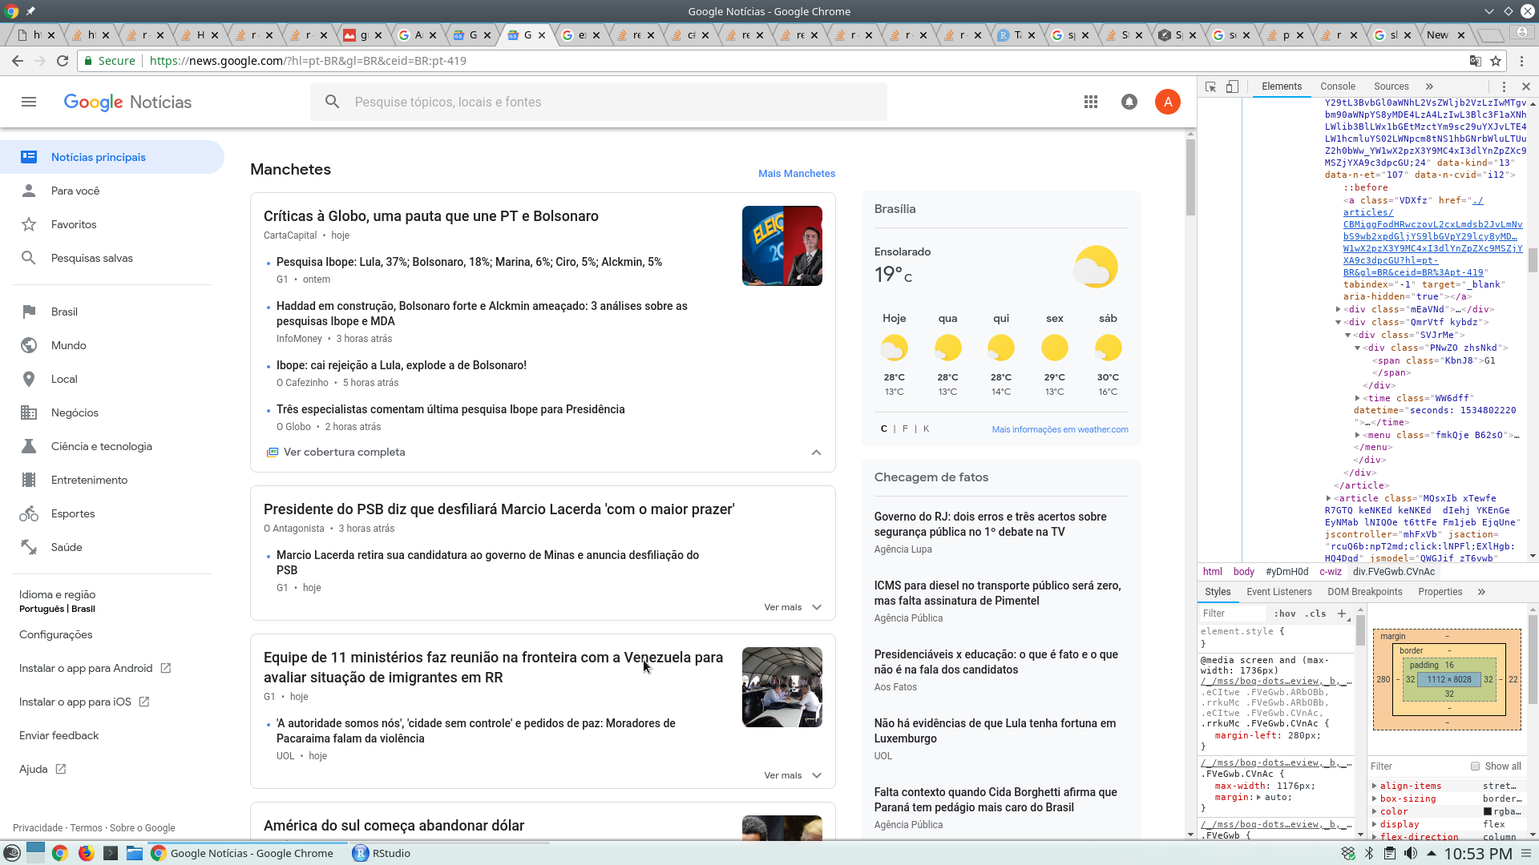
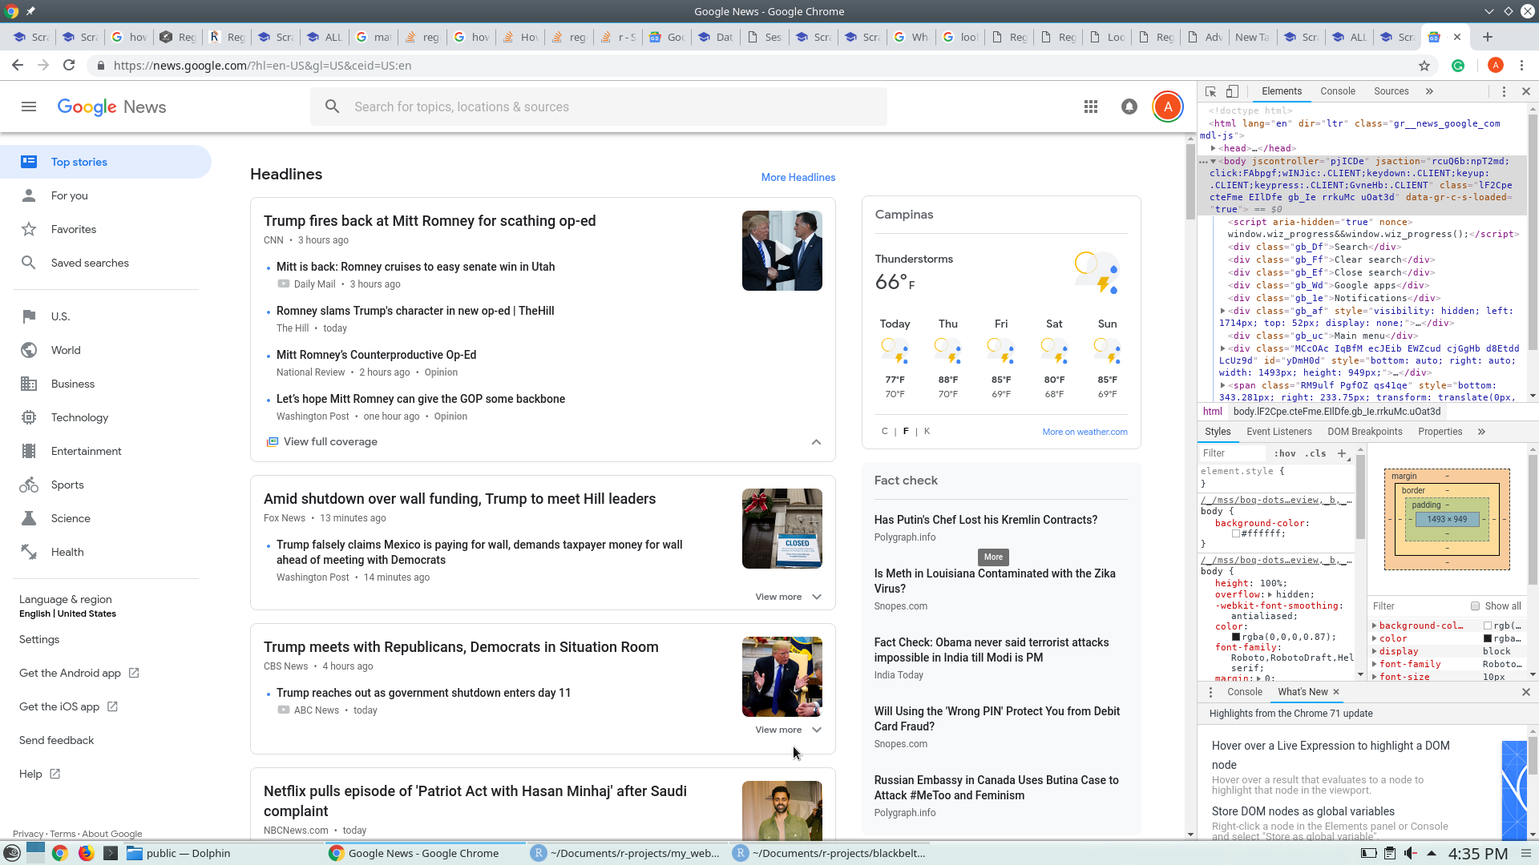
googlenews post

diff --git a/posts/2018-12-24-scraping-google-news-with-rvest/index.html b/posts/2018-12-24-scraping-google-news-with-rvest/index.html
@@ -1339,113 +1339,70 @@ document.addEventListener('DOMContentLoaded', function() {
 
 <div class="d-article">
 <p>This is an example of how to scrape Google News with the awesome <code>rvest</code> package.</p>
-<p>This work is the result of a question that came up on the WhatsApp group of our site <a href="https://www.blackbeltR.com.br" target="_blank"><strong>blackbeltR</strong></a>. A user came up with this problem and I decided to help him. It was a cool challenge, so why not?</p>
-<p>A great deal of the basic ideas comes from his own code. I just kept it and added few things in order to get the code working. First off, you should take a look at the Google News (or Google Notícias) website <a href="https://news.google.com/?hl=pt-BR&amp;gl=BR&amp;ceid=BR:pt-419" target="_blank">HERE</a>, which I reproduce below:</p>
-<p><!-- criamos uma pasta /img em /_post/nome_do_post/ -> essa eh o diretorio raiz do post  --></p>
+<p>This work is a solution for a question that appeared in our WhatsApp group, <a href="https://www.blackbeltR.com.br" target="_blank"><strong>blackbeltR</strong></a>. A user came up with this problem and I decided to help him. It was a cool challenge, so why not?</p>
+<p>A great deal of the basic ideas comes from his own code. I just kept it and added few things in order to get the code working.</p>
+<p>First off, you should take a look at the Google News website <a href="https://news.google.com/" target="_blank">HERE</a>, which I reproduce below:</p>
+<!-- criamos uma pasta /img em /_post/nome_do_post/ -> essa eh o diretorio raiz do post  -->
 <p><img src="img/google_news_screenshot.png" /></p>
 <hr />
 <p>You may notice, on the right side of the page, that we are using Google Chrome <strong>dev-tools</strong>. We use this to identify the <em>html nodes</em> we need. You can access this tool by hitting the <strong>F12</strong> key. The html nodes are passed as arguments to the <code>rvest</code> functions.</p>
 <p>Basically, the idea is to extract the communication vehicle (vehicle), the time elapsed since the news was published (time), and the main headline (headline).</p>
 <p>The code and coments are presented below:</p>
 <div class="layout-chunk" data-layout="l-body">
-<pre class="r"><code>
-# loading the packages:
-library(dplyr) # we want the pipes
-library(rvest) # webscraping
-library(stringr) # to deal with strings and to clean up our data</code></pre>
-</div>
-<div class="layout-chunk" data-layout="l-body">
-<pre class="r"><code>
-# extracting the whole website
-google &lt;- read_html(&quot;https://news.google.com/?hl=pt-BR&amp;gl=BR&amp;ceid=BR:pt-419&quot;)</code></pre>
-</div>
-<div class="layout-chunk" data-layout="l-body">
-<pre class="r"><code>
-# extracting the com vehicles
-# we pass the nodes in html_nodes and extract the text from the last one 
-# we use stringr to delete strings that are not important
-vehicle_all &lt;- google %&gt;% 
-  html_nodes(&quot;div div div main c-wiz div div div article div div div&quot;) %&gt;% 
-  html_text() %&gt;%
-  str_subset(&quot;[^more_vert]&quot;) %&gt;%
-  str_subset(&quot;[^share]&quot;) %&gt;%
-  str_subset(&quot;[^bookmark_border]&quot;)
 
-vehicle_all[1:10] # take a look at the first ten</code></pre>
+</div>
+<div class="layout-chunk" data-layout="l-body">
+
+</div>
+<div class="layout-chunk" data-layout="l-body">
 <pre><code>
- [1] &quot;EBC&quot;                       &quot;G1&quot;                       
- [3] &quot;UOL&quot;                       &quot;Brasil 247&quot;               
- [5] &quot;G1&quot;                        &quot;Jornal O Globo&quot;           
- [7] &quot;UOL&quot;                       &quot;Jornal Correio&quot;           
- [9] &quot;G1&quot;                        &quot;Diário do Centro do Mundo&quot;</code></pre>
+ [1] &quot;CNN&quot;                 &quot;Daily Mail&quot;          &quot;Fox News&quot;           
+ [4] &quot;National Review&quot;     &quot;Opinion&quot;             &quot;Opinion&quot;            
+ [7] &quot;The Washington Post&quot; &quot;Opinion&quot;             &quot;Opinion&quot;            
+[10] &quot;Fox News&quot;           </code></pre>
 </div>
 <div class="layout-chunk" data-layout="l-body">
-<pre class="r"><code>
-# extracting the time elapsed
-time_all &lt;- google %&gt;% html_nodes(&quot;div article div div time&quot;) %&gt;% html_text()
-
-time_all[1:10] # take a look at the first ten</code></pre>
 <pre><code>
- [1] &quot;hoje&quot;          &quot;hoje&quot;          &quot;ontem&quot;         &quot;hoje&quot;         
- [5] &quot;hoje&quot;          &quot;3 horas atrás&quot; &quot;hoje&quot;          &quot;2 horas atrás&quot;
- [9] &quot;5 horas atrás&quot; &quot;2 horas atrás&quot;</code></pre>
+ [1] &quot;4 hours ago&quot;  &quot;3 hours ago&quot;  &quot;today&quot;        &quot;3 hours ago&quot; 
+ [5] &quot;one hour ago&quot; &quot;one hour ago&quot; &quot;one hour ago&quot; &quot;one hour ago&quot;
+ [9] &quot;one hour ago&quot; &quot;2 hours ago&quot; </code></pre>
 </div>
 <div class="layout-chunk" data-layout="l-body">
-<pre class="r"><code>
-# extracting the headlines
-# and using stringr for cleaning
-headline_all &lt;- google %&gt;% html_nodes(&quot;article&quot;) %&gt;% html_text(&quot;span&quot;) %&gt;%
-  str_split(&quot;(?&lt;=[a-z0-9áéóí!?])(?=[A-Z])&quot;) # also considering portuguese special characters
-
-headline_all &lt;- sapply(headline_all, function(x) x[1]) # extract only the first elements
-
-
-headline_all[1:10] # take a look at the first ten</code></pre>
 <pre><code>
- [1] &quot;Passa de 400 número de mortos em tsunami na Indonésia&quot;                   
- [2] &quot;Número de mortos no tsunami da Indonésia chega a 429&quot;                    
- [3] &quot;A erupção de vulcão que causou tsunami na Indonésia explicada em imagens&quot;
- [4] &quot;Indonésia usa drones e cães farejadores em buscas&quot;                       
- [5] &quot;Chuva dificulta busca por sobreviventes do tsunami na Indonésia&quot;         
- [6] &quot;Temer confirma que desistiu de editar decreto de indulto de Natal&quot;       
- [7] &quot;Temer não assina indulto de Natal; medida não altera saída de presos&quot;    
- [8] &quot;Michel Temer não concederá indulto de Natal&quot;                             
- [9] &quot;Palácio do Planalto confirma que não haverá indulto de Natal neste ano&quot;  
-[10] &quot;Michel Temer confirma que desistiu de editar decreto de indulto de Natal&quot;</code></pre>
+ [1] &quot;Trump fires back at Mitt Romney for scathing op-ed&quot;                                                             
+ [2] &quot;Mitt is back: Romney cruises to easy senate win in Utah&quot;                                                        
+ [3] &quot;Mitt Romney rebuked by niece and GOP boss Ronna Mc&quot;                                                             
+ [4] &quot;Mitt Romney’s Counterproductive Op-Ed&quot;                                                                          
+ [5] &quot;Let’s hope Mitt Romney can give the GOP some backbone&quot;                                                          
+ [6] &quot;Shutdown Day 12: Lawmakers to hear wall plea at White House&quot;                                                    
+ [7] &quot;Trump falsely claims Mexico is paying for wall, demands taxpayer money for wall ahead of meeting with Democrats&quot;
+ [8] &quot;Trump to Meet Congressional Leaders as Shutdown Stretches On&quot;                                                   
+ [9] &quot;Doug Schoen: Democrats have Trump backed into a corner as 2019 kicks off&quot;                                       
+[10] &quot;President Trump and Democrats need to strike a deal on the &#39;wall&#39; | The&quot;                                        </code></pre>
 </div>
-<p>In this last case we used a regular expression (REGEX) to clean up the data. We did this by separating the actual headline phrases from the complementary ones. In some cases, we have a phrase ending with uppercase letters such as “SP” (a Brazilian state) collapsed with other phrase initiating with another uppercase letter such as “A” (a common article in Portuguese) for example. We have to think of a better way to split these cases, but the current result is quite satisfactory for now.</p>
-<p>Before we finish, we have to clean up our data. It is common to collect garbage in the process such as data related to “fake news checking”, which is a section on the right side of the page (in the Brazilian version). As a result, it is possible that the three vectors we have created may have different sizes. Therefore, we use the smallest of them as the base and just delete the entries above this number on the other two vectors.</p>
+<p>In this last case we used a regular expression (REGEX) to clean up the data. We did this by separating the actual headline phrases from the complementary ones. In some cases, we have a phrase ending with uppercase letters such as “NSA” (a Brazilian state) collapsed with other phrase initiating with another uppercase letter such as the word “A” (“…with NSAA agent said…”) for example. We have to think of a better way to split these cases, but the current result is quite satisfactory for now.</p>
+<p>The expression <code>?&lt;=</code> is called “lookbehind”, while <code>?=</code> is called “lookahead”. Those “lookaround” expressions allow us to look for patterns followed or preceded by something. In our case, the idea is basically to separate a string at the point in which lowercase letters, numbers, exclamation points or question marks (<code>[a-z0-9!?]</code>) are collapsed with uppercase letters (<code>[A-Z]</code>), e.g. where lowercase letters, numbers and others are preceded (<code>?&lt;=</code>) by uppercase letters.</p>
+<p>Before we finish, we have to clean up our data. It is common to collect garbage in the process such as data related to “fact checking”, which is a section on the right side of the page. As a result, it is possible that the three vectors we have created may have different sizes. Therefore, we use the smallest of them as the base and just delete the entries above this number on the other two vectors.</p>
 <div class="layout-chunk" data-layout="l-body">
-<pre class="r"><code>
-# finding the smallest vector
-min &lt;- min(sapply(list(vehicle_all, time_all, headline_all), length))
 
-# cutting
-vehicle_all &lt;- vehicle_all[1:min]
-time_all &lt;- time_all[1:min]
-headline_all &lt;- headline_all[1:min]</code></pre>
 </div>
 <p>And we have our final data frame:</p>
 <div class="layout-chunk" data-layout="l-body">
-<pre class="r"><code>
-df_news &lt;- data_frame(vehicle_all, time_all, headline_all)
-
-df_news</code></pre>
 <pre><code>
-# A tibble: 99 x 3
-   vehicle_all        time_all   headline_all                        
-   &lt;chr&gt;              &lt;chr&gt;      &lt;chr&gt;                               
- 1 EBC                hoje       Passa de 400 número de mortos em ts…
- 2 G1                 hoje       Número de mortos no tsunami da Indo…
- 3 UOL                ontem      A erupção de vulcão que causou tsun…
- 4 Brasil 247         hoje       Indonésia usa drones e cães farejad…
- 5 G1                 hoje       Chuva dificulta busca por sobrevive…
- 6 Jornal O Globo     3 horas a… Temer confirma que desistiu de edit…
- 7 UOL                hoje       Temer não assina indulto de Natal; …
- 8 Jornal Correio     2 horas a… Michel Temer não concederá indulto …
- 9 G1                 5 horas a… Palácio do Planalto confirma que nã…
-10 Diário do Centro … 2 horas a… Michel Temer confirma que desistiu …
-# ... with 89 more rows</code></pre>
+# A tibble: 161 x 3
+   vehicle_all     time_all   headline_all                           
+   &lt;chr&gt;           &lt;chr&gt;      &lt;chr&gt;                                  
+ 1 CNN             4 hours a… Trump fires back at Mitt Romney for sc…
+ 2 Daily Mail      3 hours a… Mitt is back: Romney cruises to easy s…
+ 3 Fox News        today      Mitt Romney rebuked by niece and GOP b…
+ 4 National Review 3 hours a… Mitt Romney’s Counterproductive Op-Ed  
+ 5 Opinion         one hour … Let’s hope Mitt Romney can give the GO…
+ 6 Opinion         one hour … Shutdown Day 12: Lawmakers to hear wal…
+ 7 The Washington… one hour … Trump falsely claims Mexico is paying …
+ 8 Opinion         one hour … Trump to Meet Congressional Leaders as…
+ 9 Opinion         one hour … Doug Schoen: Democrats have Trump back…
+10 Fox News        2 hours a… President Trump and Democrats need to …
+# ... with 151 more rows</code></pre>
 </div>
 <!--radix_placeholder_article_footer-->
 <div class="article-footer">

diff --git a/_posts/2018-12-24-scraping-google-news-with-rvest/scraping-google-news-with-rvest.html b/_posts/2018-12-24-scraping-google-news-with-rvest/scraping-google-news-with-rvest.html
@@ -965,113 +965,70 @@
 
 <div class="d-article">
 <p>This is an example of how to scrape Google News with the awesome <code>rvest</code> package.</p>
-<p>This work is the result of a question that came up on the WhatsApp group of our site <a href="https://www.blackbeltR.com.br" target="_blank"><strong>blackbeltR</strong></a>. A user came up with this problem and I decided to help him. It was a cool challenge, so why not?</p>
-<p>A great deal of the basic ideas comes from his own code. I just kept it and added few things in order to get the code working. First off, you should take a look at the Google News (or Google Notícias) website <a href="https://news.google.com/?hl=pt-BR&amp;gl=BR&amp;ceid=BR:pt-419" target="_blank">HERE</a>, which I reproduce below:</p>
-<p><!-- criamos uma pasta /img em /_post/nome_do_post/ -> essa eh o diretorio raiz do post  --></p>
+<p>This work is a solution for a question that appeared in our WhatsApp group, <a href="https://www.blackbeltR.com.br" target="_blank"><strong>blackbeltR</strong></a>. A user came up with this problem and I decided to help him. It was a cool challenge, so why not?</p>
+<p>A great deal of the basic ideas comes from his own code. I just kept it and added few things in order to get the code working.</p>
+<p>First off, you should take a look at the Google News website <a href="https://news.google.com/" target="_blank">HERE</a>, which I reproduce below:</p>
+<!-- criamos uma pasta /img em /_post/nome_do_post/ -> essa eh o diretorio raiz do post  -->
 <p><img src="img/google_news_screenshot.png" /></p>
 <hr />
 <p>You may notice, on the right side of the page, that we are using Google Chrome <strong>dev-tools</strong>. We use this to identify the <em>html nodes</em> we need. You can access this tool by hitting the <strong>F12</strong> key. The html nodes are passed as arguments to the <code>rvest</code> functions.</p>
 <p>Basically, the idea is to extract the communication vehicle (vehicle), the time elapsed since the news was published (time), and the main headline (headline).</p>
 <p>The code and coments are presented below:</p>
 <div class="layout-chunk" data-layout="l-body">
-<pre class="r"><code>
-# loading the packages:
-library(dplyr) # we want the pipes
-library(rvest) # webscraping
-library(stringr) # to deal with strings and to clean up our data</code></pre>
-</div>
-<div class="layout-chunk" data-layout="l-body">
-<pre class="r"><code>
-# extracting the whole website
-google &lt;- read_html(&quot;https://news.google.com/?hl=pt-BR&amp;gl=BR&amp;ceid=BR:pt-419&quot;)</code></pre>
-</div>
-<div class="layout-chunk" data-layout="l-body">
-<pre class="r"><code>
-# extracting the com vehicles
-# we pass the nodes in html_nodes and extract the text from the last one 
-# we use stringr to delete strings that are not important
-vehicle_all &lt;- google %&gt;% 
-  html_nodes(&quot;div div div main c-wiz div div div article div div div&quot;) %&gt;% 
-  html_text() %&gt;%
-  str_subset(&quot;[^more_vert]&quot;) %&gt;%
-  str_subset(&quot;[^share]&quot;) %&gt;%
-  str_subset(&quot;[^bookmark_border]&quot;)
 
-vehicle_all[1:10] # take a look at the first ten</code></pre>
+</div>
+<div class="layout-chunk" data-layout="l-body">
+
+</div>
+<div class="layout-chunk" data-layout="l-body">
 <pre><code>
- [1] &quot;EBC&quot;                       &quot;G1&quot;                       
- [3] &quot;UOL&quot;                       &quot;Brasil 247&quot;               
- [5] &quot;G1&quot;                        &quot;Jornal O Globo&quot;           
- [7] &quot;UOL&quot;                       &quot;Jornal Correio&quot;           
- [9] &quot;G1&quot;                        &quot;Diário do Centro do Mundo&quot;</code></pre>
+ [1] &quot;CNN&quot;                 &quot;Daily Mail&quot;          &quot;Fox News&quot;           
+ [4] &quot;National Review&quot;     &quot;Opinion&quot;             &quot;Opinion&quot;            
+ [7] &quot;The Washington Post&quot; &quot;Opinion&quot;             &quot;Opinion&quot;            
+[10] &quot;Fox News&quot;           </code></pre>
 </div>
 <div class="layout-chunk" data-layout="l-body">
-<pre class="r"><code>
-# extracting the time elapsed
-time_all &lt;- google %&gt;% html_nodes(&quot;div article div div time&quot;) %&gt;% html_text()
-
-time_all[1:10] # take a look at the first ten</code></pre>
 <pre><code>
- [1] &quot;hoje&quot;          &quot;hoje&quot;          &quot;ontem&quot;         &quot;hoje&quot;         
- [5] &quot;hoje&quot;          &quot;3 horas atrás&quot; &quot;hoje&quot;          &quot;2 horas atrás&quot;
- [9] &quot;5 horas atrás&quot; &quot;2 horas atrás&quot;</code></pre>
+ [1] &quot;4 hours ago&quot;  &quot;3 hours ago&quot;  &quot;today&quot;        &quot;3 hours ago&quot; 
+ [5] &quot;one hour ago&quot; &quot;one hour ago&quot; &quot;one hour ago&quot; &quot;one hour ago&quot;
+ [9] &quot;one hour ago&quot; &quot;2 hours ago&quot; </code></pre>
 </div>
 <div class="layout-chunk" data-layout="l-body">
-<pre class="r"><code>
-# extracting the headlines
-# and using stringr for cleaning
-headline_all &lt;- google %&gt;% html_nodes(&quot;article&quot;) %&gt;% html_text(&quot;span&quot;) %&gt;%
-  str_split(&quot;(?&lt;=[a-z0-9áéóí!?])(?=[A-Z])&quot;) # also considering portuguese special characters
-
-headline_all &lt;- sapply(headline_all, function(x) x[1]) # extract only the first elements
-
-
-headline_all[1:10] # take a look at the first ten</code></pre>
 <pre><code>
- [1] &quot;Passa de 400 número de mortos em tsunami na Indonésia&quot;                   
- [2] &quot;Número de mortos no tsunami da Indonésia chega a 429&quot;                    
- [3] &quot;A erupção de vulcão que causou tsunami na Indonésia explicada em imagens&quot;
- [4] &quot;Indonésia usa drones e cães farejadores em buscas&quot;                       
- [5] &quot;Chuva dificulta busca por sobreviventes do tsunami na Indonésia&quot;         
- [6] &quot;Temer confirma que desistiu de editar decreto de indulto de Natal&quot;       
- [7] &quot;Temer não assina indulto de Natal; medida não altera saída de presos&quot;    
- [8] &quot;Michel Temer não concederá indulto de Natal&quot;                             
- [9] &quot;Palácio do Planalto confirma que não haverá indulto de Natal neste ano&quot;  
-[10] &quot;Michel Temer confirma que desistiu de editar decreto de indulto de Natal&quot;</code></pre>
+ [1] &quot;Trump fires back at Mitt Romney for scathing op-ed&quot;                                                             
+ [2] &quot;Mitt is back: Romney cruises to easy senate win in Utah&quot;                                                        
+ [3] &quot;Mitt Romney rebuked by niece and GOP boss Ronna Mc&quot;                                                             
+ [4] &quot;Mitt Romney’s Counterproductive Op-Ed&quot;                                                                          
+ [5] &quot;Let’s hope Mitt Romney can give the GOP some backbone&quot;                                                          
+ [6] &quot;Shutdown Day 12: Lawmakers to hear wall plea at White House&quot;                                                    
+ [7] &quot;Trump falsely claims Mexico is paying for wall, demands taxpayer money for wall ahead of meeting with Democrats&quot;
+ [8] &quot;Trump to Meet Congressional Leaders as Shutdown Stretches On&quot;                                                   
+ [9] &quot;Doug Schoen: Democrats have Trump backed into a corner as 2019 kicks off&quot;                                       
+[10] &quot;President Trump and Democrats need to strike a deal on the &#39;wall&#39; | The&quot;                                        </code></pre>
 </div>
-<p>In this last case we used a regular expression (REGEX) to clean up the data. We did this by separating the actual headline phrases from the complementary ones. In some cases, we have a phrase ending with uppercase letters such as “SP” (a Brazilian state) collapsed with other phrase initiating with another uppercase letter such as “A” (a common article in Portuguese) for example. We have to think of a better way to split these cases, but the current result is quite satisfactory for now.</p>
-<p>Before we finish, we have to clean up our data. It is common to collect garbage in the process such as data related to “fake news checking”, which is a section on the right side of the page (in the Brazilian version). As a result, it is possible that the three vectors we have created may have different sizes. Therefore, we use the smallest of them as the base and just delete the entries above this number on the other two vectors.</p>
+<p>In this last case we used a regular expression (REGEX) to clean up the data. We did this by separating the actual headline phrases from the complementary ones. In some cases, we have a phrase ending with uppercase letters such as “NSA” (a Brazilian state) collapsed with other phrase initiating with another uppercase letter such as the word “A” (“…with NSAA agent said…”) for example. We have to think of a better way to split these cases, but the current result is quite satisfactory for now.</p>
+<p>The expression <code>?&lt;=</code> is called “lookbehind”, while <code>?=</code> is called “lookahead”. Those “lookaround” expressions allow us to look for patterns followed or preceded by something. In our case, the idea is basically to separate a string at the point in which lowercase letters, numbers, exclamation points or question marks (<code>[a-z0-9!?]</code>) are collapsed with uppercase letters (<code>[A-Z]</code>), e.g. where lowercase letters, numbers and others are preceded (<code>?&lt;=</code>) by uppercase letters.</p>
+<p>Before we finish, we have to clean up our data. It is common to collect garbage in the process such as data related to “fact checking”, which is a section on the right side of the page. As a result, it is possible that the three vectors we have created may have different sizes. Therefore, we use the smallest of them as the base and just delete the entries above this number on the other two vectors.</p>
 <div class="layout-chunk" data-layout="l-body">
-<pre class="r"><code>
-# finding the smallest vector
-min &lt;- min(sapply(list(vehicle_all, time_all, headline_all), length))
 
-# cutting
-vehicle_all &lt;- vehicle_all[1:min]
-time_all &lt;- time_all[1:min]
-headline_all &lt;- headline_all[1:min]</code></pre>
 </div>
 <p>And we have our final data frame:</p>
 <div class="layout-chunk" data-layout="l-body">
-<pre class="r"><code>
-df_news &lt;- data_frame(vehicle_all, time_all, headline_all)
-
-df_news</code></pre>
 <pre><code>
-# A tibble: 99 x 3
-   vehicle_all        time_all   headline_all                        
-   &lt;chr&gt;              &lt;chr&gt;      &lt;chr&gt;                               
- 1 EBC                hoje       Passa de 400 número de mortos em ts…
- 2 G1                 hoje       Número de mortos no tsunami da Indo…
- 3 UOL                ontem      A erupção de vulcão que causou tsun…
- 4 Brasil 247         hoje       Indonésia usa drones e cães farejad…
- 5 G1                 hoje       Chuva dificulta busca por sobrevive…
- 6 Jornal O Globo     3 horas a… Temer confirma que desistiu de edit…
- 7 UOL                hoje       Temer não assina indulto de Natal; …
- 8 Jornal Correio     2 horas a… Michel Temer não concederá indulto …
- 9 G1                 5 horas a… Palácio do Planalto confirma que nã…
-10 Diário do Centro … 2 horas a… Michel Temer confirma que desistiu …
-# ... with 89 more rows</code></pre>
+# A tibble: 161 x 3
+   vehicle_all     time_all   headline_all                           
+   &lt;chr&gt;           &lt;chr&gt;      &lt;chr&gt;                                  
+ 1 CNN             4 hours a… Trump fires back at Mitt Romney for sc…
+ 2 Daily Mail      3 hours a… Mitt is back: Romney cruises to easy s…
+ 3 Fox News        today      Mitt Romney rebuked by niece and GOP b…
+ 4 National Review 3 hours a… Mitt Romney’s Counterproductive Op-Ed  
+ 5 Opinion         one hour … Let’s hope Mitt Romney can give the GO…
+ 6 Opinion         one hour … Shutdown Day 12: Lawmakers to hear wal…
+ 7 The Washington… one hour … Trump falsely claims Mexico is paying …
+ 8 Opinion         one hour … Trump to Meet Congressional Leaders as…
+ 9 Opinion         one hour … Doug Schoen: Democrats have Trump back…
+10 Fox News        2 hours a… President Trump and Democrats need to …
+# ... with 151 more rows</code></pre>
 </div>
 <!--radix_placeholder_article_footer-->
 <!--/radix_placeholder_article_footer-->
